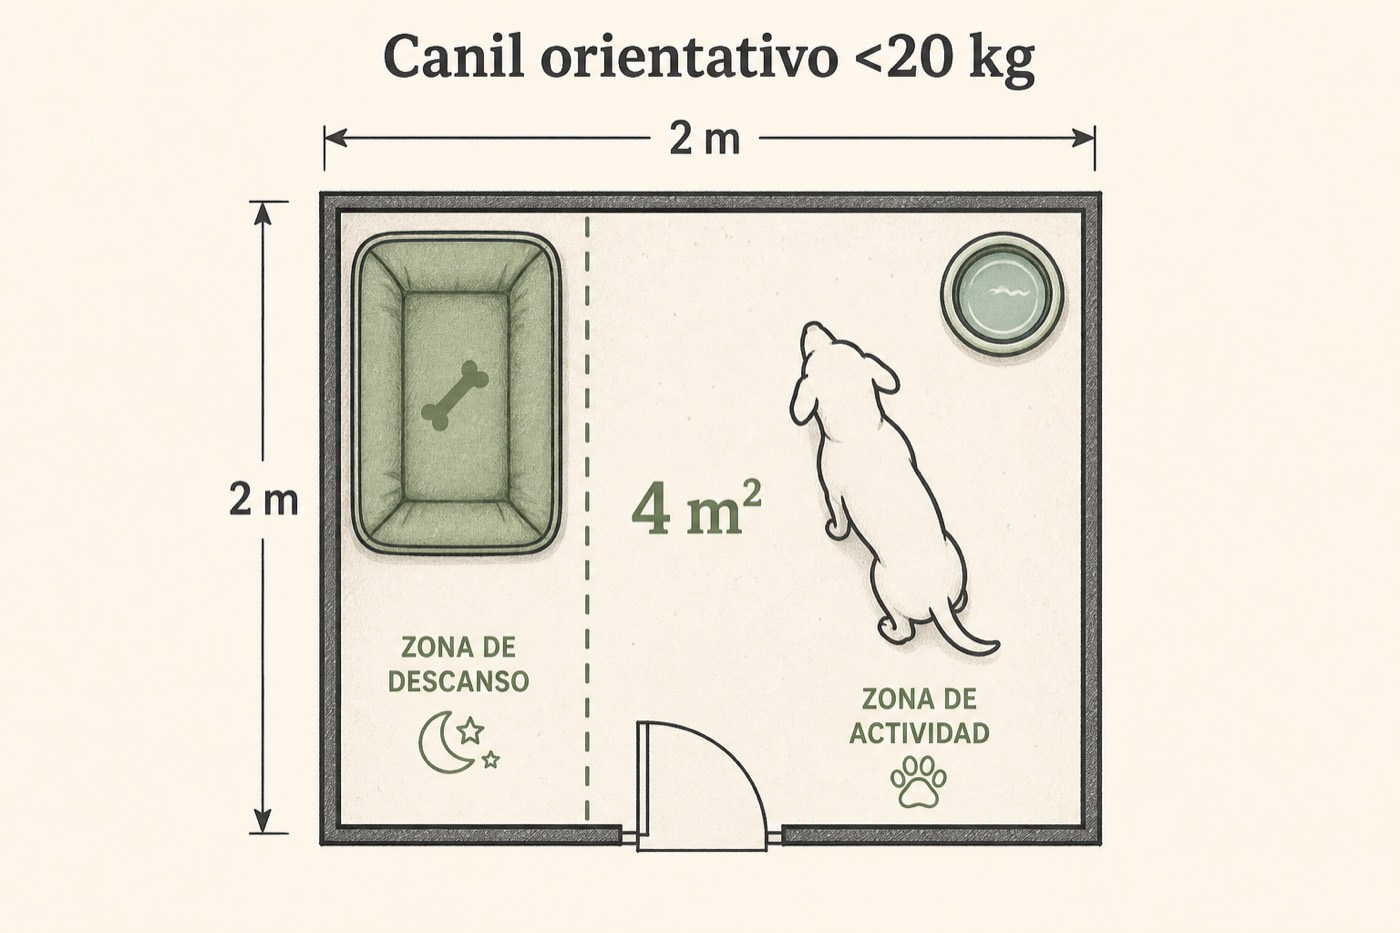
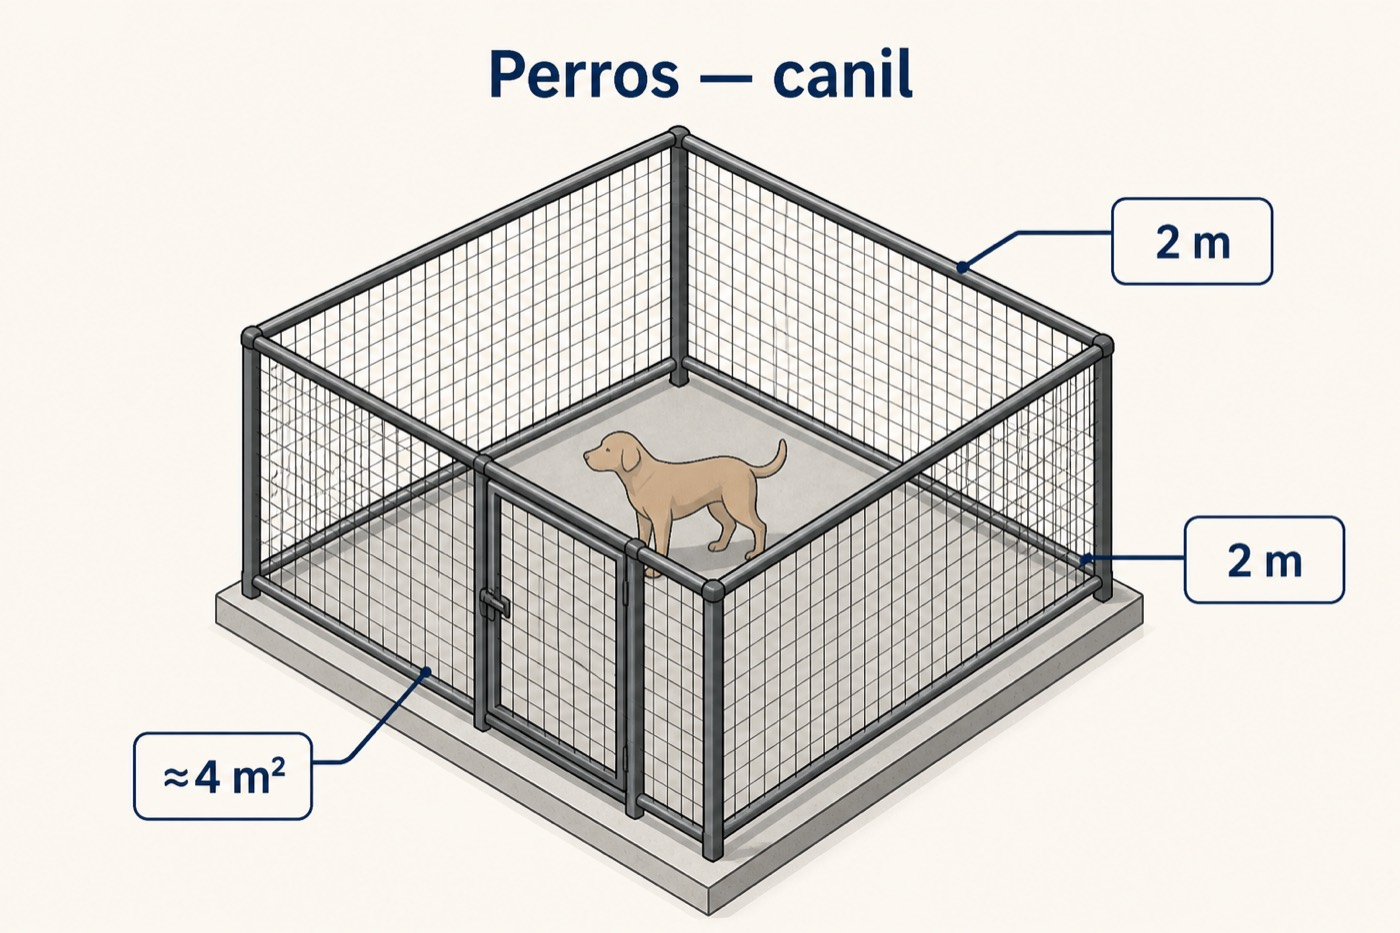
Unificar diagramas de criaderos en estilo 3D isométrico genérico.
Misma línea visual que la jaula acuícola, siluetas por especie sin
énfasis de raza/marca, y SW atlas-v52 para refrescar caché de imágenes.

diff --git a/sw.js b/sw.js
@@ -3,7 +3,7 @@
 // enlaces clínicos) para que la app funcione sin red tras la primera visita.
 // Las imágenes de razas/enfermedades usan stale-while-revalidate en una caché
 // aparte para no invalidar el shell al renovar versión.
-const CACHE_VERSION = 'atlas-v51';
+const CACHE_VERSION = 'atlas-v52';
 const STATIC_CACHE = `${CACHE_VERSION}-static`;
 const IMAGE_CACHE = `${CACHE_VERSION}-images`;
 const CURRENT_CACHES = [STATIC_CACHE, IMAGE_CACHE];

diff --git a/tests/test_criaderos.rb b/tests/test_criaderos.rb
@@ -75,7 +75,7 @@ class CriaderosSectionTest < Minitest::Test
 
   def test_sw_precache_y_version
     assert_includes @sw, './data/criaderos.js'
-    assert_match(/CACHE_VERSION\s*=\s*'atlas-v(?:5[1-9]|[6-9]\d|\d{3,})'/, @sw)
+    assert_match(/CACHE_VERSION\s*=\s*'atlas-v(?:5[2-9]|[6-9]\d|\d{3,})'/, @sw)
   end
 
   def test_sitemap_incluye_criaderos

diff --git a/tests/test_evaluacion_filtros.rb b/tests/test_evaluacion_filtros.rb
@@ -105,7 +105,7 @@ class EvaluacionFiltrosTest < Minitest::Test
 
   def test_sw_cache_bump
     sw = File.read(File.join(@root, 'sw.js'))
-    assert_includes sw, "CACHE_VERSION = 'atlas-v51'"
+    assert_includes sw, "CACHE_VERSION = 'atlas-v52'"
     assert_includes sw, 'networkFirstWithCache'
     assert_includes sw, 'isAppShellRequest'
   end
